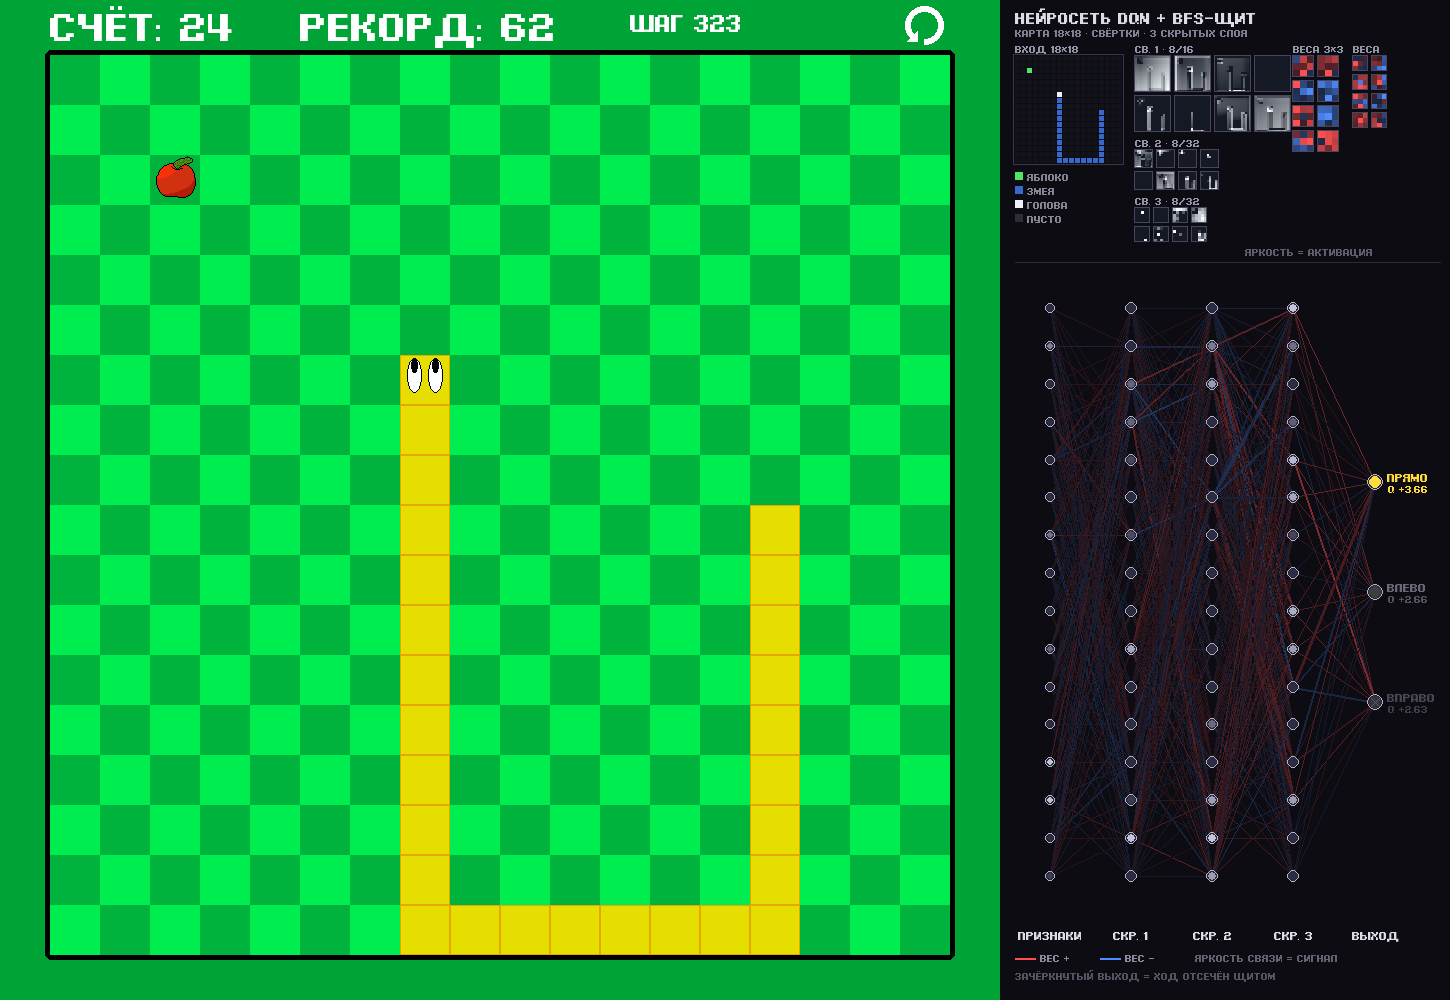
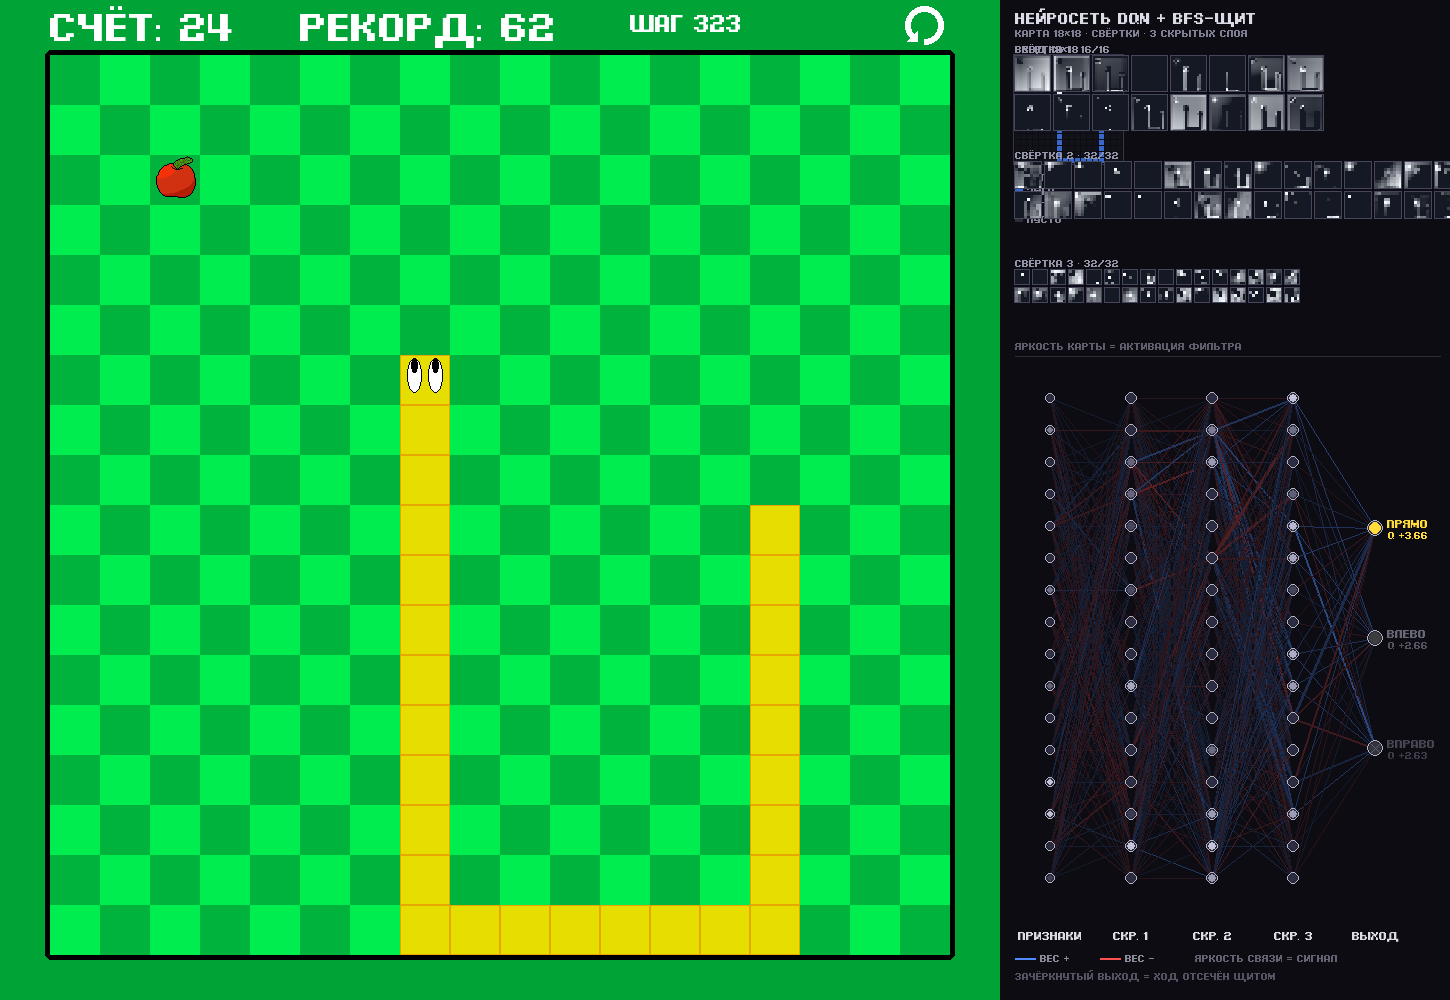
style: обратные цвета весов и все карты свёрток
- положительные веса синие, отрицательные красные
- убраны ядра 3×3 над моделью
- свёртки 2 и 3 показывают все 32 фильтра, свёртка 1 — все 16
- обновлены скриншот и описание панели

Changed region(s): [[0.6828, 0.031, 1.0, 0.899]]

diff --git a/snake_ai/render.py b/snake_ai/render.py
@@ -31,8 +31,8 @@ BG_NET = (12, 12, 18)
 NEURON_BG = (40, 40, 55)
 NEURON_BORDER = (180, 180, 200)
 ACT_COLOR = (0, 255, 120)      # активность нейрона (зелёный)
-WEIGHT_POS = (255, 80, 80)     # положительный вес (красный)
-WEIGHT_NEG = (80, 140, 255)    # отрицательный вес (синий)
+WEIGHT_POS = (80, 140, 255)    # положительный вес (синий)
+WEIGHT_NEG = (255, 80, 80)     # отрицательный вес (красный)
 CHOSEN_COLOR = (255, 220, 60)  # выбранное действие (жёлтый)
 TEXT_COLOR = (220, 220, 230)
 
@@ -128,19 +128,26 @@ class Renderer:
                 pygame.draw.rect(self.screen, color, (x + xx * cell, y + yy * cell, cell - 1, cell - 1))
 
     def _draw_conv_maps(self, acts: np.ndarray, x: int, y: int, scale: int,
-                        label: str, cols: int = 4, count: int = 8) -> None:
+                        label: str, cols: int = 8, count: int = 16) -> None:
+        """Карты активаций одной свёртки.
+
+        Размер карт задаётся явно: у первой свёртки они большие (18×18),
+        у второй и третьей — мелкие, чтобы все 32 фильтра поместились.
+        """
         if acts is None or acts.size == 0:
             return
         lbl = self.micro_font.render(label, True, (150, 150, 170))
         self.screen.blit(lbl, (x, y - 13))
-        gap = 4
-        for k in range(min(count, acts.shape[0])):
+        gap = 3
+        n_maps = min(count, int(acts.shape[0]))
+        size = int(np.asarray(acts[0]).shape[0])
+        for k in range(n_maps):
             fmap = np.asarray(acts[k], dtype=np.float32)
             peak = float(fmap.max())
             if peak > 1e-9:
                 fmap = fmap / peak
-            gx = x + (k % cols) * (fmap.shape[1] * scale + gap)
-            gy = y + (k // cols) * (fmap.shape[0] * scale + gap)
+            gx = x + (k % cols) * (size * scale + gap)
+            gy = y + (k // cols) * (size * scale + gap)
             for yy in range(fmap.shape[0]):
                 for xx in range(fmap.shape[1]):
                     b = float(np.clip(fmap[yy, xx], 0.0, 1.0)) ** 0.65
@@ -148,30 +155,7 @@ class Renderer:
                     pygame.draw.rect(self.screen, color,
                                      (gx + xx * scale, gy + yy * scale, scale, scale))
             pygame.draw.rect(self.screen, (70, 70, 95),
-                             (gx - 1, gy - 1, fmap.shape[1] * scale + 1, fmap.shape[0] * scale + 1), 1)
-
-    def _draw_kernels(self, weights: np.ndarray, x: int, y: int, cell: int,
-                      label: str, cols: int = 2, count: int = 8) -> None:
-        if weights is None or weights.size == 0:
-            return
-        lbl = self.micro_font.render(label, True, (150, 150, 170))
-        self.screen.blit(lbl, (x, y - 13))
-        gap = 4
-        for k in range(min(count, weights.shape[0])):
-            kernel = np.asarray(weights[k], dtype=np.float32).mean(axis=0)
-            peak = float(np.abs(kernel).max())
-            gx = x + (k % cols) * (kernel.shape[1] * cell + gap)
-            gy = y + (k // cols) * (kernel.shape[0] * cell + gap)
-            for yy in range(kernel.shape[0]):
-                for xx in range(kernel.shape[1]):
-                    w = float(kernel[yy, xx])
-                    strength = abs(w) / peak if peak > 1e-9 else 0.0
-                    target = WEIGHT_POS if w >= 0 else WEIGHT_NEG
-                    color = self._mix((18, 18, 26), target, 0.15 + 0.85 * strength)
-                    pygame.draw.rect(self.screen, color,
-                                     (gx + xx * cell, gy + yy * cell, cell, cell))
-            pygame.draw.rect(self.screen, (70, 70, 95),
-                             (gx - 1, gy - 1, kernel.shape[1] * cell + 1, kernel.shape[0] * cell + 1), 1)
+                             (gx - 1, gy - 1, size * scale + 1, size * scale + 1), 1)
 
     def draw_network(self, snap: NetworkSnapshot) -> None:
         """Чёрная панель справа: карта входа, свёртки, нейроны, веса, сигнал."""
@@ -212,26 +196,29 @@ class Renderer:
 
             conv = snap.conv_activations
             if len(conv) > 0:
-                self._draw_conv_maps(conv[0], panel_x + 120, 56, 2,
-                                     f"св. 1 · {min(8, conv[0].shape[0])}/{conv[0].shape[0]}")
+                self._draw_conv_maps(
+                    conv[0], panel_x, 56, 2,
+                    f"свёртка 1 · {min(16, conv[0].shape[0])}/{conv[0].shape[0]}",
+                    cols=8, count=16,
+                )
             if len(conv) > 1:
-                self._draw_conv_maps(conv[1], panel_x + 120, 150, 2,
-                                     f"св. 2 · {min(8, conv[1].shape[0])}/{conv[1].shape[0]}")
+                self._draw_conv_maps(
+                    conv[1], panel_x, 162, 3,
+                    f"свёртка 2 · {min(32, conv[1].shape[0])}/{conv[1].shape[0]}",
+                    cols=16, count=32,
+                )
             if len(conv) > 2:
-                self._draw_conv_maps(conv[2], panel_x + 120, 208, 3,
-                                     f"св. 3 · {min(8, conv[2].shape[0])}/{conv[2].shape[0]}")
-
-            kernels = snap.conv_weights
-            if len(kernels) > 0:
-                self._draw_kernels(kernels[0], panel_x + 278, 56, 7, "веса 3×3")
-            if len(kernels) > 1:
-                self._draw_kernels(kernels[1], panel_x + 338, 56, 5, "веса")
+                self._draw_conv_maps(
+                    conv[2], panel_x, 270, 3,
+                    f"свёртка 3 · {min(32, conv[2].shape[0])}/{conv[2].shape[0]}",
+                    cols=16, count=32,
+                )
             self.screen.blit(
-                self.micro_font.render("яркость = активация", True, (95, 95, 110)),
-                (panel_x + 230, 246),
+                self.micro_font.render("яркость карты = активация фильтра", True, (95, 95, 110)),
+                (panel_x, 340),
             )
-            pygame.draw.line(self.screen, (45, 45, 58), (panel_x, 262), (panel_x + 425, 262))
-            top, bottom = 290, 895
+            pygame.draw.line(self.screen, (45, 45, 58), (panel_x, 356), (panel_x + 425, 356))
+            top, bottom = 382, 895
         else:
             top, bottom = 95, 895
 

diff --git a/snake_ai/agent.py b/snake_ai/agent.py
@@ -217,7 +217,6 @@ class NetworkSnapshot:
     feature_values: np.ndarray = field(default_factory=lambda: np.zeros(0, np.float32))
     dense_weights: List[np.ndarray] = field(default_factory=list)
     conv_activations: List[np.ndarray] = field(default_factory=list)
-    conv_weights: List[np.ndarray] = field(default_factory=list)
 
 
 class DQNAgent:
@@ -332,11 +331,6 @@ class DQNAgent:
                 feature_values=flat.detach().cpu().numpy(),
                 dense_weights=[fc.weight.detach().cpu().numpy() for fc in net.fcs],
                 conv_activations=[a[0].detach().cpu().numpy() for a in conv_acts],
-                conv_weights=[
-                    net.conv1.weight.detach().cpu().numpy(),
-                    net.conv2.weight.detach().cpu().numpy(),
-                    net.conv3.weight.detach().cpu().numpy(),
-                ],
             )
 
         q, acts = net.forward_with_activations(x)

diff --git a/README.md b/README.md
@@ -139,11 +139,10 @@ python play.py --no-shield                      # чистая сеть без B
 В окне `play.py` справа от игрового поля — чёрная панель:
 
 * **вход 18×18** — карта поля: зелёное яблоко, синяя змейка, белая голова, тёмные пустые клетки;
-* **свёртка 1–3** — карты активаций фильтров, яркость = активация;
-* **веса 3×3** — ядра первых свёрточных слоёв: красный — положительный вес, синий — отрицательный;
+* **свёртка 1–3** — все карты активаций (16 фильтров в первой, по 32 во второй и третьей), яркость = активация;
 * **признаки → скр. 1 → скр. 2 → скр. 3 → выход** — полносвязная часть: 16 показанных нейронов из 128 в каждом скрытом слое, яркость = активация после ReLU;
 * **выход** — три Q-оценки действий; выбранное действие подсвечено жёлтым, запрещённые щитом выходы зачёркнуты и потушены;
-* **связи** — веса: красные положительные, синие отрицательные, толщина — величина веса, яркость — реальный сигнал в текущем кадре.
+* **связи** — веса: синие положительные, красные отрицательные, толщина — величина веса, яркость — реальный сигнал в текущем кадре.
 
 Сигнал считается тем же проходом сети, что и выбор действия, поэтому подсветка соответствует именно этому ходу.
 
